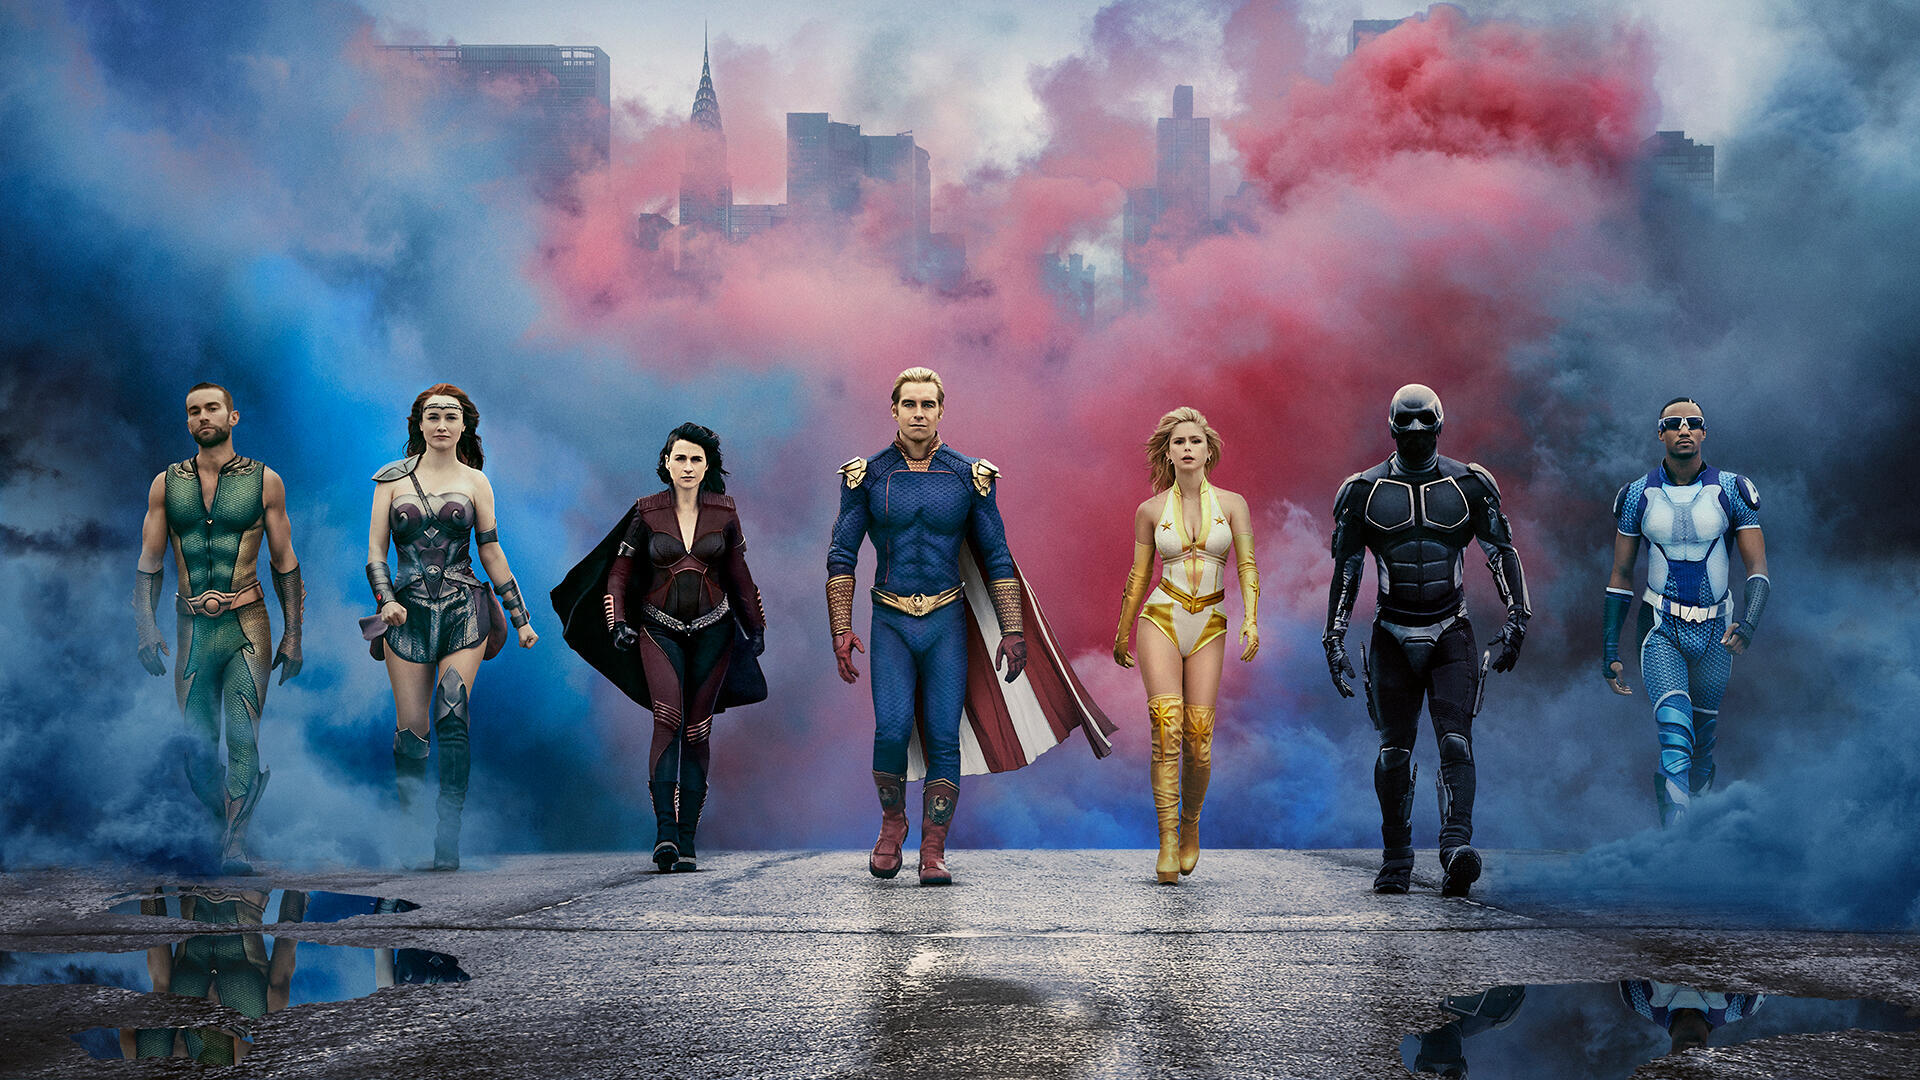
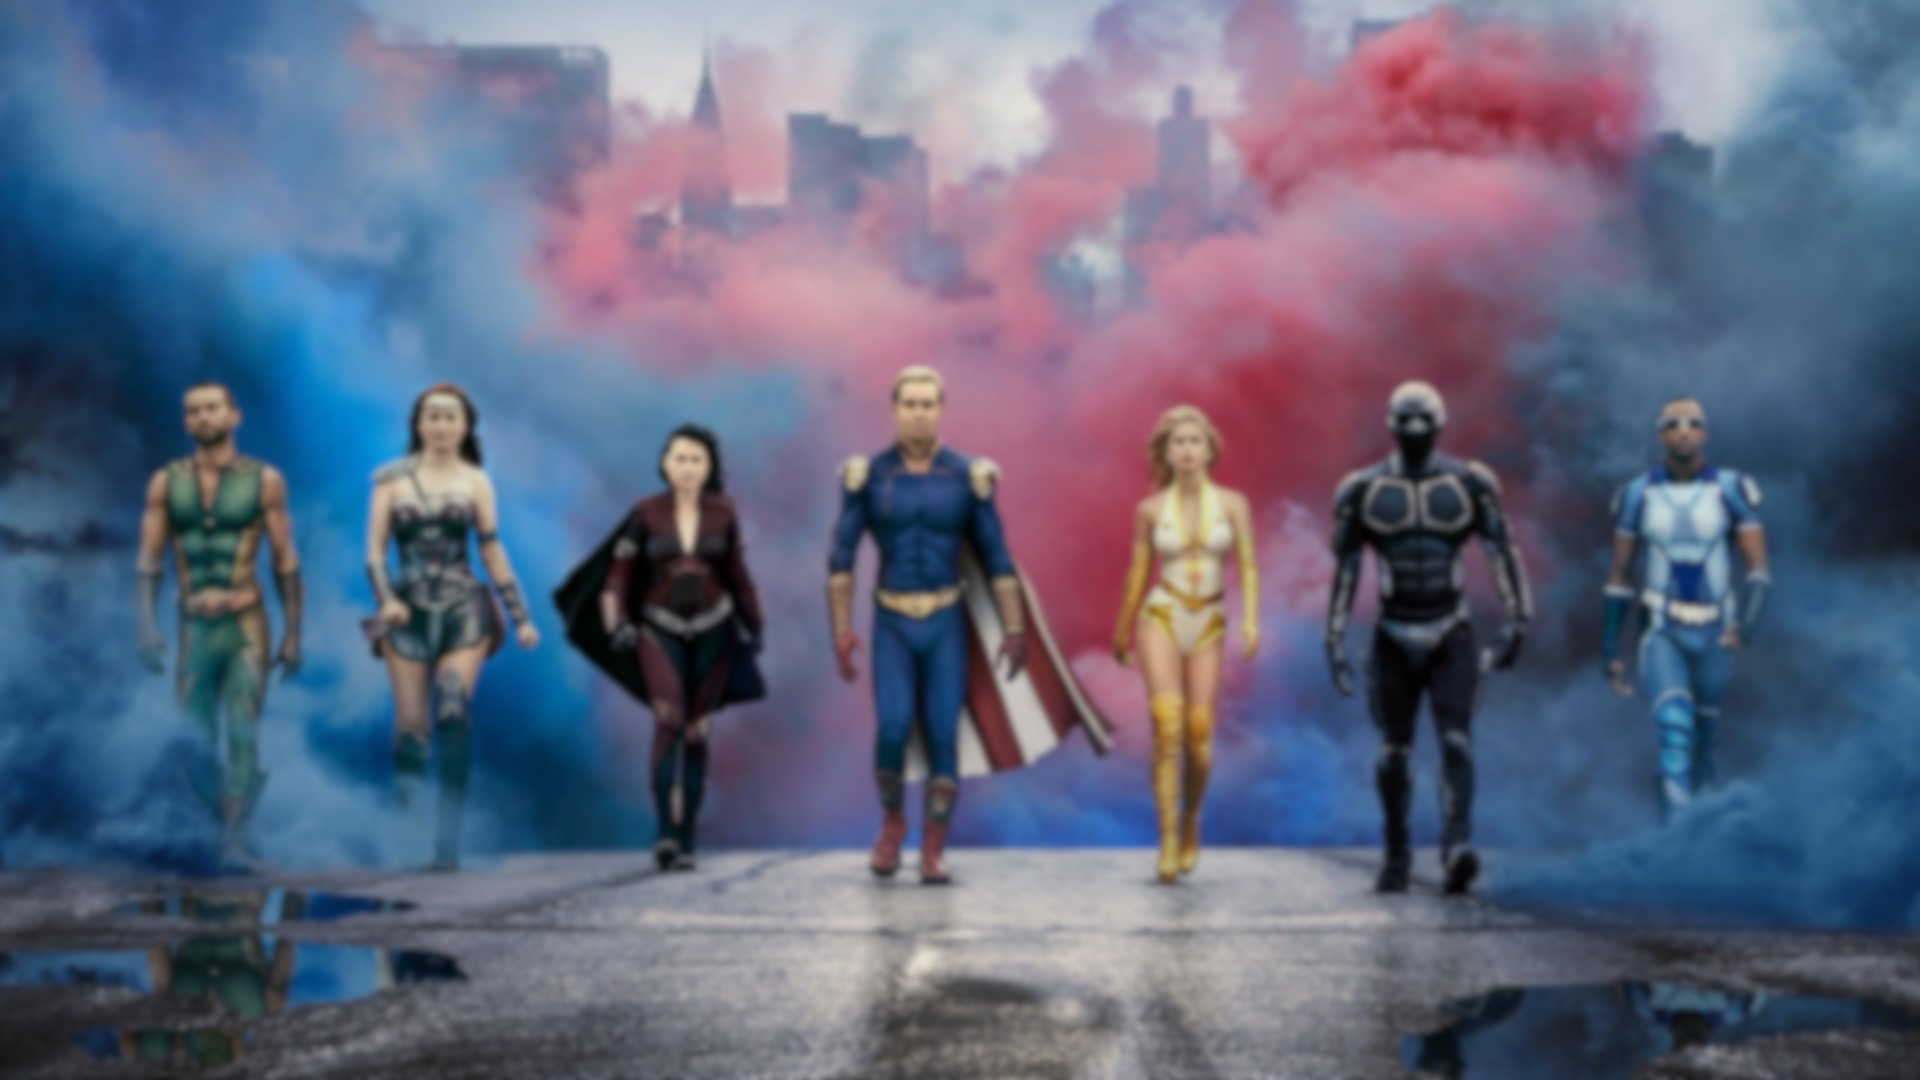
background image et link vers page accueil

diff --git a/client/src/pages/FirstPage/FirstPage.css b/client/src/pages/FirstPage/FirstPage.css
@@ -1,11 +1,9 @@
 .background {
   height: 100vh;
-  width: 100vw;
-  background-image: url("../../assets/images/entree-nicos.jpg");
+  background-image: url("/src/assets/images/entree-nicos.jpg");
   background-size: cover;
+  object-fit: fill;
   background-repeat: no-repeat;
-  filter: blur(2px);
-  object-fit: cover;
   /* margin-top: -100px; */
 }
 .header {
@@ -46,17 +44,41 @@
 }
 .text-entry {
   color: white;
-  margin-left: 18rem;
-  margin-right: 18rem;
-  margin-bottom: 7rem;
-  margin-top: 5rem;
+  margin-left: 12rem;
+  margin-right: 12rem;
+  margin-bottom: 5rem;
+  margin-top: 4rem;
+  font-family: "poppins";
+  font-size: 1.5rem;
+  font-weight: 300;
 }
 .button-entry {
-  width: 20rem;
-  height: 5rem;
+  width: 25rem;
+  height: 6rem;
   border-radius: 1rem;
   background-color: transparent;
   color: var(--main-color);
-  font-size: 2rem;
+  font-size: 2.5rem;
   font-weight: 600;
+}
+/* mobile */
+@media screen and (max-width: 744px) {
+  .background {
+    height: 100vh;
+    background-image: url("/src/assets/images/entree-nicos.jpg");
+    background-size: cover;
+    background-repeat: no-repeat;
+    /* margin-top: -100px; */
+  }
+}
+
+/* tablette */
+@media screen and (max-width: 1024px) {
+  .background {
+    height: 100vh;
+    background-image: url("/src/assets/images/entree-nicos.jpg");
+    background-size: cover;
+    background-repeat: no-repeat;
+    /* margin-top: -100px; */
+  }
 }

diff --git a/client/src/pages/FirstPage/FirstPage.jsx b/client/src/pages/FirstPage/FirstPage.jsx
@@ -1,6 +1,8 @@
 import "./FirstPage.css"
+import { Link } from "react-router-dom";
 import ban from "../../assets/images/logos/banniere.svg"
 import logo from "../../assets/images/logos/logo-fond-0.png"
+
 
 function FirstPage() {
   return (
@@ -12,8 +14,10 @@ function FirstPage() {
         <button type='button' className='sign'>SIGN IN</button>
     </div>
     <img src={ban} className='banniere' alt="banniere"/>
-    <p className='text-entry'>Rendez votre quotidien: déménagements sans stress, cours de sport dynamiques, animations d'anniversaires mémorables et bien plus encore...Louez dès aujourd'hui et vivez l'aventure avec nos héros à vos côtés!</p>    
+    <p className='text-entry'><span>Rendez votre quotidien extraordinaire</span> <br/>déménagements sans stress, cours de sport dynamiques, animations d'anniversaires mémorables et bien plus encore...Louez dès aujourd'hui et vivez l'aventure avec nos héros à vos côtés!</p>    
+    <Link to ="/accueil">
     <button type="button" className='button-entry'>DISCOVER THE EXPERIENCE</button>
+    </Link>
     </div>
     </section>
   )

diff --git a/client/src/main.jsx b/client/src/main.jsx
@@ -8,7 +8,7 @@ import FirstPage from "./pages/FirstPage/FirstPage";
 
 const router = createBrowserRouter([
   {
-    path: "/",
+    path: "/accueil",
     element: <App />,
   },
   {
@@ -22,13 +22,11 @@ const router = createBrowserRouter([
     ),
   },
   {
-    path: "/firstpage",
+    path: "/",
     element:(
-
       <main>
         <FirstPage/>
       </main>
-
     ),
   },
 ]);
